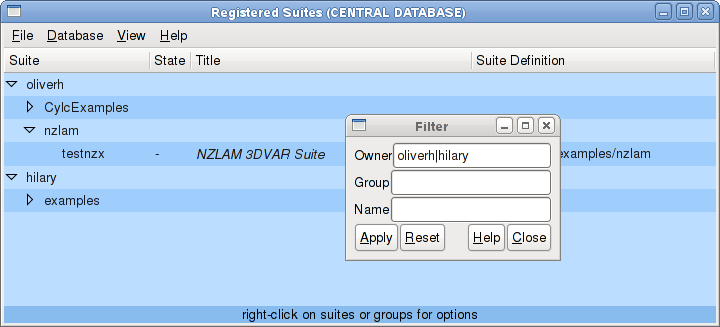
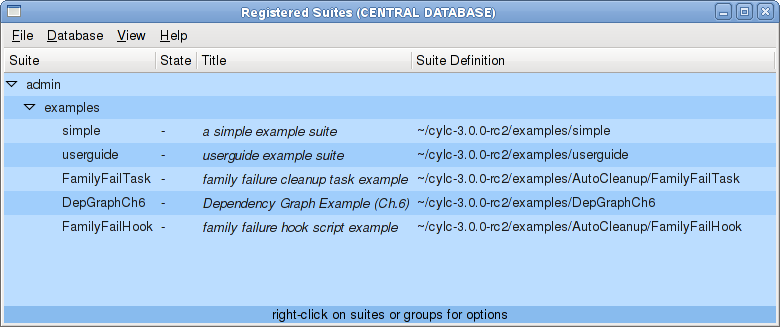
quick start overhaul in progress

diff --git a/doc/userguide.tex b/doc/userguide.tex
@@ -739,13 +739,14 @@ the ``simple dependency graph example'' suite from Chapter 6, which
 should have been registered in the central suite database during cylc
 installation as ``examples:DepGraphCh6''. 
 
-\subsection{0. Cylc Environment}
+\subsection{Cylc Environment}
 
 To gain access to cylc you just need to source the cylc environment
 script. Put the following code in your login script, or do the same at the
 terminal prompt before using cylc.\footnote{To switch between different
 cylc installations just source the appropriate environment script.}
 \begin{lstlisting}
+# .profile
 export CYLC_DIR=/path/to/cylc/installation
 . $CYLC_DIR/environment.sh
 \end{lstlisting}
@@ -754,11 +755,17 @@ You should also specify the graphical and terminal editors you want to
 use to edit suites, by setting the following environment variables in
 your \lstinline=.profile=:
 \begin{lstlisting}
+# .profile
 export GEDITOR='gvim -f'  # GUI editor launched by gcylc
 export EDITOR=vim         # terminal editor launched by 'cylc edit'
 \end{lstlisting}
 See \lstinline=cylc edit help= (Appendix~\ref{edit}) for other editor
-examples.
+examples. And finally, you must ensure that \lstinline=$TMPDIR= is 
+defined in your environment, for example:
+\begin{lstlisting}
+# .profile
+export TMPDIR=/tmp/$USER
+\end{lstlisting}
 
 \subsection{Start Your Lockserver Daemon}
 
@@ -806,103 +813,186 @@ prompt> gcylc &
 \end{lstlisting}
 
 Now use the `View' menu to switch to the central suite database, which 
-contains suites accessible to all users. You can view suites in the 
-central database (just right-click on them) but to run them you need
-to import them to your private suite database.
+contains suites accessible to all users. Suites are displayed in a
+treeview by suite owner, group, and name, as shown in
+Figure~\ref{fig-cdb-new}.
 
-\subsection{Import The Example Suite} 
+\begin{figure}
+    \begin{center}
+        \includegraphics[width=0.8\textwidth]{../images/screenshots/cdb.png}
+    \end{center}
+\caption[gcylc: Central Suite Database]{\small
+The central suite database, viewed in gcylc, showing some example suites.}
+\label{fig-cdb-new}
+\end{figure} 
 
-Right-click on the suite registered as `admin:examples:DepGraphCh6'
-and choose the `Import' option to copy the suite to your private
-suite database (replace `admin' with the name of the user account under
-which cylc was installed; and note that the suite owner, group, and
-name, are displayed in a tree view (admin $->$  examples $->$
-DepGraphCh6). A dialog box will pop up asking for the group 
-and name under which to register the suite in your private database,
-and a destination directory into which to copy the suite definition. 
-Leave the suite GROUP:NAME as examples:DepGraph6, and choose a 
-destination directory that you have permission to write to. Now
-use the `View' menu to switch back to your private database, and 
-check that you now have a copy of the example suite.
+\subsubsection{Central Suite Database Actions}
 
-The following subsections desribe how to import a copy of the example
-suite from the central database to a local directory,
-\begin{lstlisting}
-$HOME/cylc/examples/userguide
-\end{lstlisting}
-and register it as,
-\begin{lstlisting}
-examples:userguide
-\end{lstlisting}
+By right-clicking on a suite in the central database, or using the cylc
+commandline, you can:
+\begin{myenumerate}
+    \item retrieve the suite description,
+    \item list tasks in the suite,
+    \item view the suite defintion in your editor,
+    \item plot the suite dependency graph,
+    \item search the suite definition and bin scripts,
+    \item validate the suite defintion,
+    \item import the suite or group to your private database,
+    \item unreregister the suite or group (if you own it),
+    \item reregister the suite or group (if you own it).
+\end{myenumerate}
 
-\subsubsection{using gcylc}
+\subsection{Import An Example Suite To Your Private Database} 
 
-Start gcylc, switch to the central database view, right-click on
-\lstinline=admin > examples > userguide= 
-(where `admin' is the username of the cylc installation account),
-choose `Import', and specify the registration GROUP and NAME, and 
-destination path, as above. Check that the import was successful
-by inspecting the command output window, and switching the view back to
-your local database, which should now contain your copy of the suite.
+Find the suite registered as `admin:examples:DepGraphCh6' in the central 
+database (replace `admin' with the name of the user account under which
+cylc was installed). If there are a lot of suites in the central
+database, use View $\rightarrow$ Filter to restrict the view (you
+can leave
+the dialog open and refilter as often as you like).
 
-\subsubsection{using the commandline}
+Now right click on the DepGraphCh6 suite and choose `Import' to copy the
+suite to your private database. A dialog box will pop up allowing you 
+to register your copy under a different group and name (just leave these
+as `examples' and `DepGraphCh6') and a location to copy the
+suite definition to (e.g.\ \lstinline=$HOME/suites/DepGraphCh6=).
+{\em Note that suite groups do not need to be created explicitly, they are 
+automatically created and deleted as required.} 
 
-Check that the example suite is registered in the central database,
+Use the View menu to switch back to your private database, and 
+check that you now have a copy of the example suite; it should look like
+Figure~\ref{fig-pdb-new}. Note that you can also import the whole 
+`examples' group at once if you like (right-click on the group instead
+of the suite name).
+
+\begin{figure}
+    \begin{center}
+        \includegraphics[width=0.8\textwidth]{../images/screenshots/pdb-new.png}
+    \end{center}
+\caption[gcylc: Private Suite Database]{\small
+A private suite database, viewed in gcylc, showing a first example suite
+imported from the central database.}
+\label{fig-pdb-new}
+\end{figure} 
+
+\subsubsection{Commandline}
+
+If you like, you can now delete your new suite and re-import it via the
+cylc commandline. To delete a suite, right-click $\rightarrow$
+Unregister and choose ``delete suite definition directory'' (ignore the
+dire warnings - you still have the master copy in the central database). 
+The following transcript shows how to reimport the suite using the cylc
+commandline:
 
 \lstset{ basicstyle=\color{basic}\scriptsize\ttfamily }
 \begin{lstlisting}
-prompt> cylc db print --central | grep userguide # or:
-prompt> cylc db print --central --group=examples --name=userguide
-admin:examples:userguide  "userguide example suite" /home/admin/cylc/examples/userguide
+# Check that the example suite is registered in the central database,
+prompt> cylc db print --central | grep DepGraphCh6
+admin:examples:DepGraphCh6  "Dependency Graph Example (Ch.6)" \
+    /home/admin/cylc/examples/DepGraphCh6
+
+# Import the suite,
+prompt> cylc db import admin:examples:DepGraphCh6 $HOME/suites/examples/DepGraphCh6
+Locking database /home/oliverh/.cylc/LDB/db
+REGISTERED examples:DepGraphCh6  "Dependency Graph Example (Ch.6)" \
+    /home/oliverh/suites/examples/DepGraphCh6
+Copying suite definition
+Unlocking database /home/oliverh/.cylc/LDB/db
+DONE
+
+# Check the import was successful,
+prompt> cylc db print | grep DepGraphCh6
+examples:DepGraphCh6 "Dependency Graph Example (Ch.6)" \
+    /home/oliverh/suites/examples/DepGraphCh6
 \end{lstlisting}
 
 \lstset{ basicstyle=\color{basic}\footnotesize\ttfamily }
-Now import the suite,
+
+\subsubsection{Private Suite Database Actions}
+
+By right-clicking on a suite in your private database, or using the cylc
+commandline, you can:
+\begin{myenumerate}
+    \item start a suite control GUI to run the suite (or connect to a running suite),
+    \item submit a single suite task to run, just as it would be submitted by the suite
+    \item view the suite stdout and stderr streams,
+    \item view the suite log file (which records all scheduling events and messages),
+    \item retrieve the suite description,
+    \item list tasks in the suite,
+    \item edit the suite defintion in your editor,
+    \item plot the suite dependency graph,
+    \item search the suite definition and bin scripts,
+    \item validate the suite defintion,
+    \item copy the suite or group,
+    \item export the suite or group to the central database,
+    \item unreregister the suite or group,
+    \item reregister the suite or group.
+\end{myenumerate}
+
+\subsection{Edit The Suite}
+
+Right-click on the suite and choose `Edit', or use the edit command,
 \begin{lstlisting}
-prompt> cylc db import admin:examples:userguide $HOME/cylc/examples/userguide
+prompt> cylc edit examples:DepGraphCh6
 \end{lstlisting}
+to view the suite definition (suite.rc file) in your editor. 
 
-Check that the import was successful,
-\begin{lstlisting}
-prompt> cylc db print | grep userguide # or:
-prompt> cylc db print --group=examples --name=userguide
-examples:userguide "userguide example suite" /home/oliverh/cylc/examples/userguide
-\end{lstlisting}
-
-You can now edit, search, validate, plot, run, etc., your copy of the
-example suite, using the commandline or gcylc (right-click on the suite
-as described above).
-
-\subsection{Editing A Suite}
-
-To edit the suite definition via gcylc right-click on the suite and
-choose `Edit'; right-click again and choose `Graph' to plot the suite
-dependency graph that is defined in the suite.rc file. If you edit the
-suite.rc file the graph viewer will update whenever you save the file.
-
-To edit a suite from the commandline,
-\begin{lstlisting}
-prompt> cylc edit examples:userguide
-\end{lstlisting}
 This moves to the suite definition directory (so that you can easily
 open other suite files in the same edit session) and opens the
 suite.rc file in your chosen editor. You can of course
-do this entirely manually, but using the edit command (or right-click Edit 
-suite in gcylc) has some advantages: it is very quick and convenient,
-you don't have to remember the suite definition directory
-location, and for suite.rc files that contain include files
-(even nested ones) you can optionally edit the file inlined - it will be
-split back into its constituent include-files {\em when you save and
-exit the editor}. 
+do this entirely manually, but this way is very quick and convenient,
+you don't have to remember suite definition directory locations, and
+for suite.rc files that contain include files (even nested ones) you can
+optionally edit the file inlined - it will be split back into its
+constituent include-files {\em when you save and exit the editor}. 
+
+If you use the vim editor your can have nice cylc-specific syntax
+highlighting and section folding; see Section~\ref{SyntaxHighlighting}
+for a screenshot, and instructions}. 
+
+Here is the suite.rc file for the DepGraphCh6 example suite:
+\begin{lstlisting}
+# SUITE.RC
+title = Dependency Graph Example (Ch.6)
+
+[dependencies]
+    [[0,6,12,18]] # hours
+        graph = """
+A => B & C   # B and C trigger off A
+A(T-6) => A  # A has restart files
+                """
+    [[6,18]] # hours
+        graph = "C => X"
+[visualization]
+    [[node attributes]]
+        X = "color=red"
+\end{lstlisting}
+
+This is a complete, valid, cylc suite definition that defines a suite
+you can run: each task will execute the default cylc dummy task
+commandline, which if defined explicitly in the suite.rc file would look
+like this:
+\begin{lstlisting}
+# SUITE.RC
+[tasks]
+    [[X]] # define properties of task X
+        command = cylc wrap -m "echo DUMMY $TASK_ID; sleep $CYLC_DUMMY_SLEEP"
+\end{lstlisting}
+In other words, each task will emit an identifying message (e.g.\
+\lstinline=DUMMY X%2011052218=), sleep for a short period (10 seconds),
+and then exit. The wrapper, \lstinline=cylc wrap=, automatically reports the
+task started, and finished (or failed), to the suite.
 
 \subsection{Graphing A Suite}
 
-To graph the suite,
+To plot the dependency graph defined in the suite.rc file, use
+right-click $\rightarrow$ `Graph', or the commandline,
 \begin{lstlisting}
-prompt> cylc graph examples:userguide 2011042506 2011042606 &
+prompt> cylc graph examples:DepGraphCh6 2011042506 2011042606 &
 \end{lstlisting}
-(this results in the graph of Figure~\ref{fig-simple-graph-2}, in the 
-Suite Design Overview chapter)
+This will pop up a zoomable, pannable, graph viewer application showing
+Figure~\ref{fig-dep-graph-ch6}. If you edit the suite.rc file the graph
+viewer will update whenever you save the file.
 
 \subsection{Searching A Suite}
 
@@ -914,7 +1004,7 @@ directory,
 \begin{lstlisting}
 prompt> cylc grep OUTPUT_DIR examples:userguide
 
-FILE: /home/oliverh/cylc/examples/userguide/suite.rc
+FILE: /home/oliverh/suites/examples/userguide/suite.rc
    SECTION: [tasks]->[[X]]->[[[environment]]]
       [53]:             OUTPUT_DIR = $WORKSPACE
    SECTION: [tasks]->[[A]]->[[[environment]]]
@@ -922,11 +1012,11 @@ FILE: /home/oliverh/cylc/examples/userguide/suite.rc
 
 <...snip...>
 
-FILE: /home/oliverh/cylc/examples/userguide/bin/E.sh
+FILE: /home/oliverh/suites/examples/userguide/bin/E.sh
    [7]: cylc checkvars -c OUTPUT_DIR
    [21]: touch $OUTPUT_DIR/sea-state.products
 
-FILE: /home/oliverh/cylc/examples/userguide/bin/D.sh
+FILE: /home/oliverh/suites/examples/userguide/bin/D.sh
    [7]: cylc checkvars -c OUTPUT_DIR
    [24]: touch $OUTPUT_DIR/combined.products
 
@@ -1239,6 +1329,7 @@ between cycles.}
 \end{figure} 
 
 \subsubsection{Syntax Highlighting}
+\label{SyntaxHighlighting}
 
 The file \lstinline=$CYLC_DIR/conf/cylc.vim= configures 
 suite.rc syntax highlighting and section folding for the
@@ -2244,7 +2335,7 @@ export CYLC_DIR="/home/admin/cylc"
 export CYLC_MODE="submit"
 export CYLC_SUITE_HOST="oliverh-33586DL.greta.niwa.co.nz"
 export CYLC_SUITE_PORT="NONE"
-export CYLC_SUITE_DIR="/home/oliverh/cylc/examples/userguide"
+export CYLC_SUITE_DIR="/home/oliverh/suites/examples/userguide"
 export CYLC_SUITE="examples:userguide"
 export CYLC_SUITE_GROUP="examples"
 export CYLC_SUITE_NAME="userguide"
